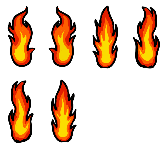
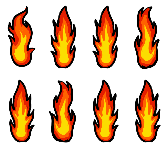
sit_idle

diff --git a/core/src/edu/cornell/gdiac/game/object/Cat.java b/core/src/edu/cornell/gdiac/game/object/Cat.java
@@ -81,6 +81,7 @@ public class Cat extends CapsuleObstacle {
     private boolean isClimbing;
     private Texture normal_texture;
     private Texture jumping_texture;
+    private Texture sit_texture;
     private boolean jump_animated;
 
     /** List of shapes corresponding to the sensors attached to this body */
@@ -337,6 +338,7 @@ public class Cat extends CapsuleObstacle {
         setFixedRotation(true);
         normal_texture = arr[0];
         jumping_texture = arr[1];
+        sit_texture = arr[4];
         maxspeed = data.getFloat("maxspeed", 0);
         damping = data.getFloat("damping", 0);
         force = data.getFloat("force", 0);
@@ -548,8 +550,11 @@ public class Cat extends CapsuleObstacle {
         else {
             if (isJumping) {
                 canvas.draw(jumping_texture, Color.WHITE, origin.x, origin.y, x, getY() * drawScale.y - 15, getAngle(), effect, 1.0f);
-            } else {
+            } else if (horizontalMovement != 0 || verticalMovement != 0){
                 canvas.draw(normal_texture, Color.WHITE, origin.x, origin.y, x, getY() * drawScale.y - 15, getAngle(), effect, 1.0f);
+            }
+            else{
+                canvas.draw(sit_texture, Color.WHITE, origin.x, origin.y, x, getY() * drawScale.y - 15, getAngle(), effect, 1.0f);
             }
         }
     }

diff --git a/core/src/edu/cornell/gdiac/game/Level.java b/core/src/edu/cornell/gdiac/game/Level.java
@@ -474,11 +474,12 @@ public class Level {
         // Create cat
         dwidth  = tMap.get("cat").getRegionWidth()/scale.x;
         dheight = tMap.get("cat").getRegionHeight()/scale.y;
-        Texture[] arr = new Texture[4];
+        Texture[] arr = new Texture[5];
         arr[0] = tMap.get("cat").getTexture();
         arr[1] = tMap.get("jumpingCat").getTexture();
         arr[2] = tMap.get("jump_anim").getTexture();
         arr[3] = tMap.get("meow_anim").getTexture();
+        arr[4] = tMap.get("sit").getTexture();
         cat = new Cat(levelJV.get("cat"), dwidth, dheight, ret, prevCat == null? null : prevCat.getPosition(),arr);
         cat.setDrawScale(scale);
 //        cat.setTexture(tMap.get("cat"));

diff --git a/core/src/edu/cornell/gdiac/game/WorldController.java b/core/src/edu/cornell/gdiac/game/WorldController.java
@@ -210,7 +210,7 @@ public class WorldController implements Screen {
 
 		String[] names = {"cat", "jumpingCat","barrier", "rope", "spikes", "button", "flame", "flamethrower", "laser", "laserBeam",
 				"deadCat", "checkpoint", "checkpointActive", "background", "steel", "goal","flame_anim","button_anim", "jump_anim",
-		"meow_anim"};
+		"meow_anim","sit"};
 		for (String n : names){
 			textureRegionAssetMap.put(n, new TextureRegion(directory.getEntry(n, Texture.class)));
 		}
